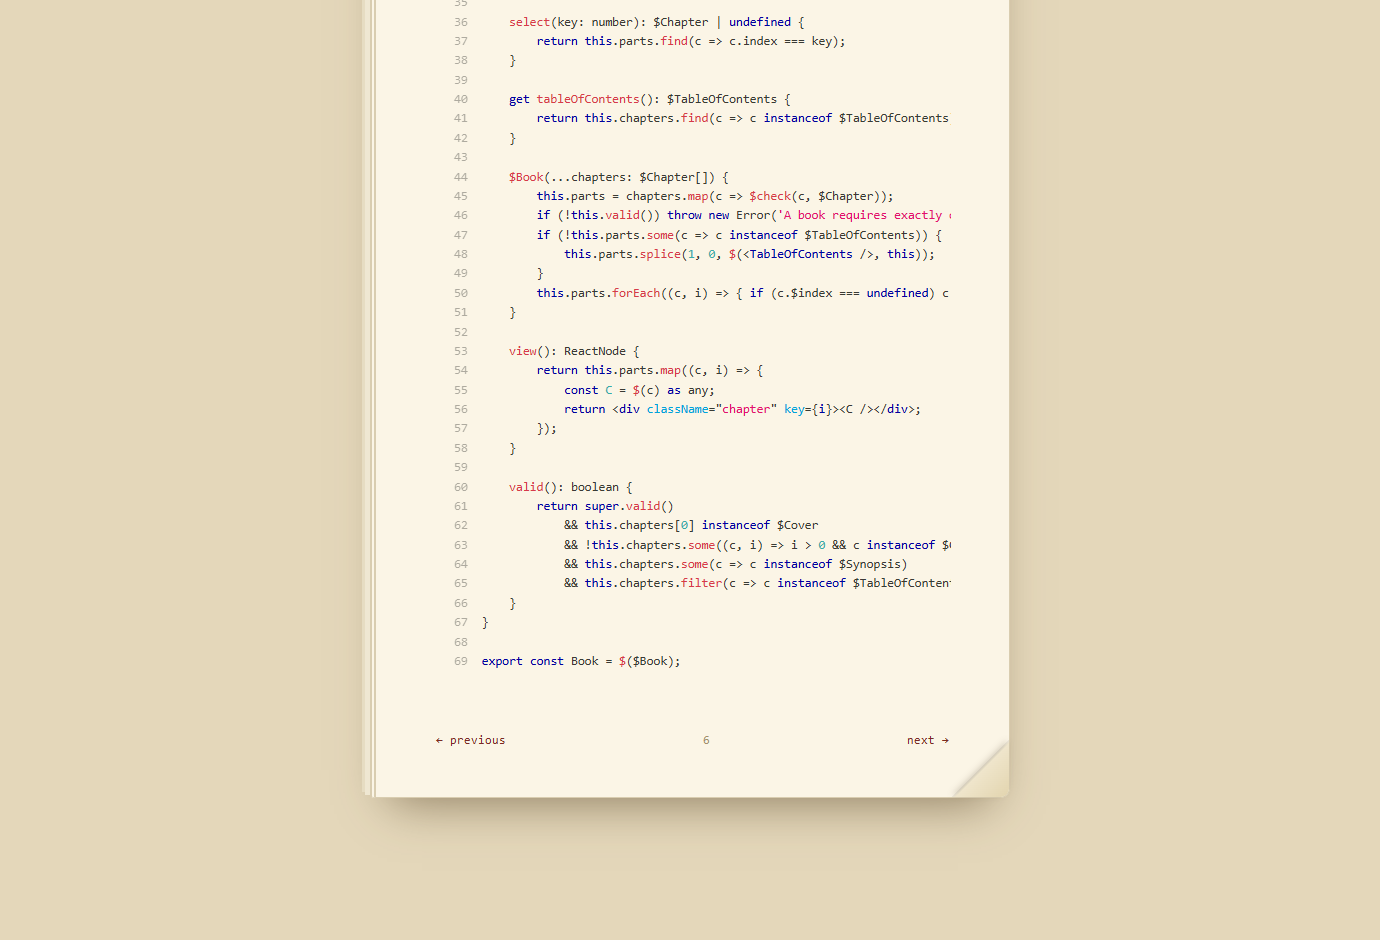
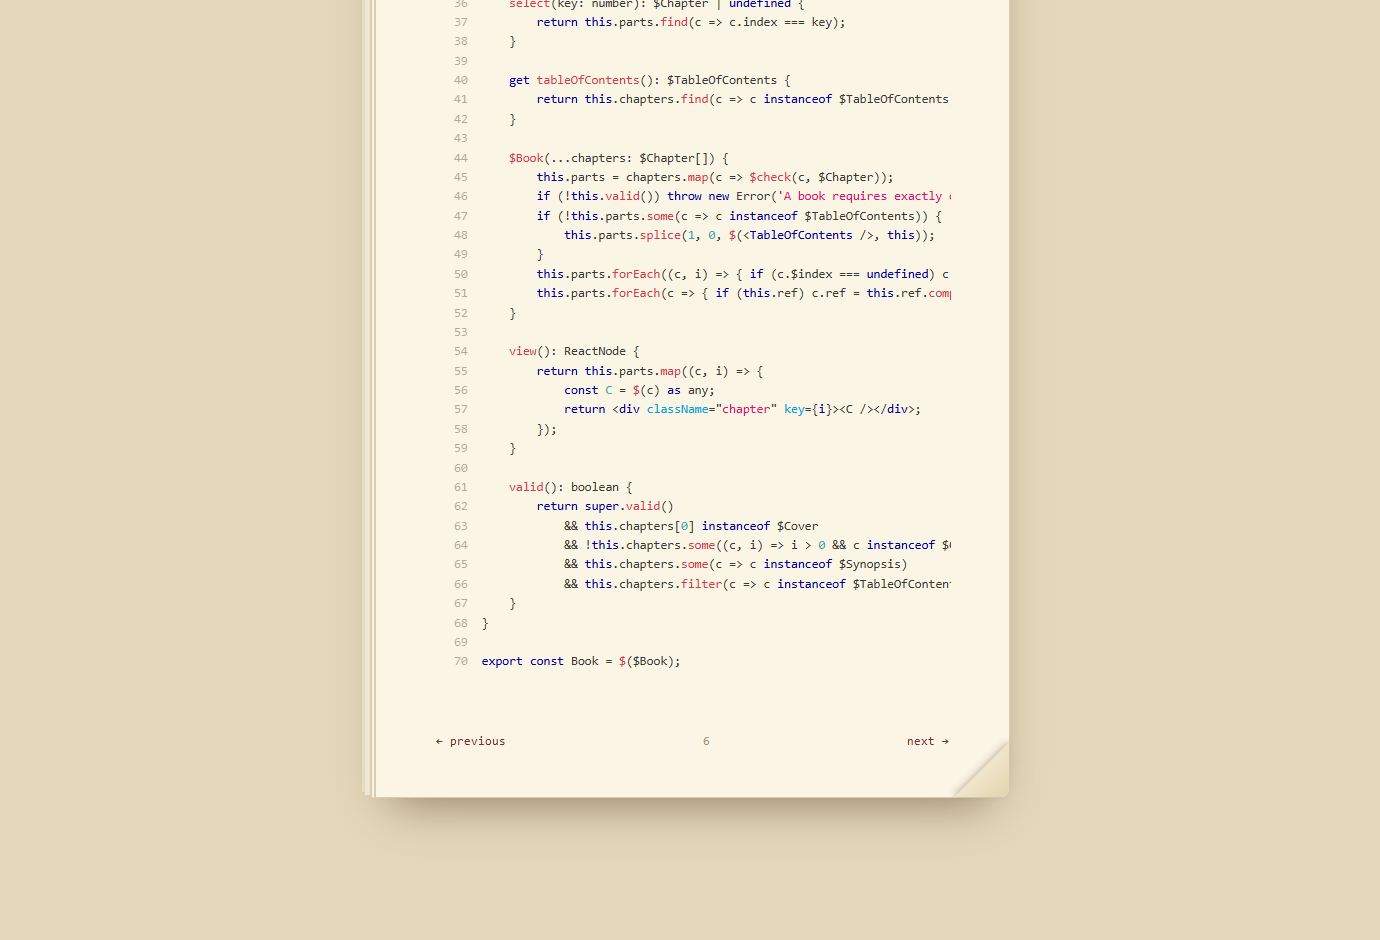
The composition assigns the reference: generated and assigned with the parts (every parts reading and bond constructor composes the holder's context down — fresh sub-chapter parts have no parent, so assignment is how context descends); the holder of the referential context overwrites even an endogen

diff --git a/library/.public/package/tests/book/book.test.tsx b/library/.public/package/tests/book/book.test.tsx
@@ -10,7 +10,7 @@ import { $Synopsis, Synopsis } from '@/book/Synopsis';
 import { $TableOfContents, TableOfContents } from '@/book/TableOfContents';
 import { $Book, Book } from '@/book/Book';
 import { Title } from '@/writing/Title';
-import { $Reference } from '@/ref/Reference';
+import { $Reference, Reference } from '@/ref/Reference';
 import { $Link, Link } from '@/ref/Link';
 import { $Bookmark, Bookmark } from '@/book/Bookmark';
 
@@ -168,6 +168,34 @@ describe('$Book — a composition of chapters, of which cover, synopsis, index, 
         expect(b.select(3)).toBe(c);
         const s = c.sections[0];
         expect(s.ref?.$for).toBe('/books/algebra#3.1');
+    });
+
+    it('the composition assigns the reference with the parts', () => {
+        const s: $Section = $(<Section><Title>Grounded</Title>{'\n\nOne paragraph stands here. It carries two sentences.'}</Section>);
+        s.ref = $(<Link for="/books/algebra#3.2">The Frame</Link>) as $Link;
+        const p = s.parts[1];
+        expect(p.$ref?.$for).toBe('/books/algebra#3.2.1');
+        expect(p.parts[0].$ref?.$for).toBe('/books/algebra#3.2.1.1');
+    });
+
+    it('an endogenous reference at the foot of the block is stripped and assigned', () => {
+        const s: $Section = $(<Section><Title>Marked</Title>{'\n\nProse of the section stands alone. '}<Reference for="#9.9">a mark in the writing</Reference></Section>);
+        expect(s.$ref?.$for).toBe('#9.9');
+        expect(s.copy).not.toContain('a mark in the writing');
+    });
+
+    it('the holder of the referential context overwrites an endogenous reference', () => {
+        const holder: $Section = $(<Section><Title>Holder</Title>{'\n\nContext lives here.'}</Section>);
+        holder.ref = $(<Link for="/held">Holder</Link>) as $Link;
+        const inner: $Section = $(<Section><Title>Inner</Title>{'\n\nProse stands here. '}<Reference for="#permalink">m</Reference></Section>, holder);
+        expect(inner.$ref?.$for).toBe('#permalink');
+        expect(inner.ref?.$for).toBe('/held#0');
+    });
+
+    it('below the paragraph a reference is a span — start and end in the text', () => {
+        const r: $Reference = $(<Reference for="#3.2.1" start={4} end={19}>the highlighted span</Reference>);
+        expect(r.start).toBe(4);
+        expect(r.end).toBe(19);
     });
 
     it('a bookmark resolves to a part of its book — associated because it is rendered inside it', () => {

diff --git a/library/.public/package/src/writing/Section.tsx b/library/.public/package/src/writing/Section.tsx
@@ -1,6 +1,7 @@
 import React, { type ReactNode } from 'react';
 import { $, $check, type $Html } from '@dna-platform/chemistry';
 import { $Referent } from '../ref/Referent';
+import { $Reference } from '../ref/Reference';
 import { text, display } from '../tools/html';
 import { type $Composition } from './Composition';
 import { $Paragraph, Paragraph } from './Paragraph';
@@ -31,7 +32,11 @@ export class $Section extends $Referent implements $Composition<$Paragraph> {
 
     get parts(): $Paragraph[] {
         const paragraphs: $Paragraph[] = this.copy.split(/\n{2,}/).map(p => $(<Paragraph>{p.trim()}</Paragraph>));
-        return paragraphs.filter(p => p.valid()).map((p, i) => { p.index = i; return p; });
+        return paragraphs.filter(p => p.valid()).map((p, i) => {
+            p.index = i;
+            if (this.ref) p.ref = this.ref.compose(p.index);
+            return p;
+        });
     }
 
     get subtitle(): $Subtitle | undefined {
@@ -56,6 +61,16 @@ export class $Section extends $Referent implements $Composition<$Paragraph> {
 
     $Section(block?: $Html<'block'>) {
         this.block = $check(block, 'block');
+        const els = (this.block as any)?.$elements as unknown[] | undefined;
+        if (els?.length) {
+            const top = els[0] instanceof $Reference ? els[0] : undefined;
+            const bottom = !top && els[els.length - 1] instanceof $Reference ? els[els.length - 1] : undefined;
+            const endogenous = top ?? bottom;
+            if (endogenous) {
+                els.splice(els.indexOf(endogenous), 1);
+                this.$ref = endogenous as $Reference;
+            }
+        }
         const first = this.block?.$elements?.[0];
         this.title = first instanceof $Title ? first.block : $check(first, 'block') as $Html<'block'>;
     }

diff --git a/library/.public/package/app/src/sections/book/library/algebra/07-the-reference.tsx b/library/.public/package/app/src/sections/book/library/algebra/07-the-reference.tsx
@@ -12,7 +12,7 @@ export class $TheReference extends $Chapter {
                     <Title>The Reference: A Sentence That Stands For</Title>
                     {'\n\nA reference is not a new kind of thing. It is a sentence — the kind that stands for something. “See the chapter on coordinates” is grammatical anywhere a sentence is; what it adds is not structure but posture. It points.'}
                     {'\n\nThis settles an old regress. If every reference needed a reference of its own, the tower would never ground. But the reference of a reference is the reference of a sentence — its place in the writing, derived like anyone else’s. The tower grounds because references live on the very spine they point along.'}
-                    {'\n\nThis page can prove it. The claim that reading changes coordinates was made in [the chapter on coordinates](#3); the frame itself was built in [its second section](#3.2). Both of those are sentences standing in this paragraph — grammatical here, pointing there.'}
+                    {'\n\nThis page can prove it. The claim that reading changes coordinates was made in [the chapter on coordinates](#3); the frame itself was built in [its second section](#3.2). Both of those are sentences standing in this paragraph — grammatical here, pointing there. And a reference below the paragraph is a *highlighting*: follow [this very paragraph](#7.1.3) and watch it light and fade, the span between a start and an end.'}
                 </Section>
                 <Section>
                     <Title>Composition and Selection</Title>

diff --git a/library/.public/package/app/src/sections/the-books.tsx b/library/.public/package/app/src/sections/the-books.tsx
@@ -303,9 +303,9 @@ function ChapterOpening({ r, mode, go }: OpeningProps) {
                         {si > 0 && sec.sub && <SectionSub>{sec.sub}</SectionSub>}
                         {sec.paragraphs.map((p, k) => (
                             p.startsWith('> ')
-                                ? <Quote key={k}>{rich(p.slice(2), go, notes)}</Quote>
+                                ? <Quote key={k} id={`${r.index}.${si + 1}.${k + 1}`}>{rich(p.slice(2), go, notes)}</Quote>
                                 : (
-                                    <Prose key={k} $drop={si === 0 && k === firstProse} style={{ marginTop: si === 0 && k === firstProse ? 16 : undefined }}>
+                                    <Prose key={k} id={`${r.index}.${si + 1}.${k + 1}`} $drop={si === 0 && k === firstProse} style={{ marginTop: si === 0 && k === firstProse ? 16 : undefined }}>
                                         {rich(p, go, notes)}
                                     </Prose>
                                 )
@@ -361,7 +361,12 @@ class $TheBooks extends $Chemical {
         if (p < 0) return;
         this.mode = 'read';
         this.turn(p);
-        setTimeout(() => { document.getElementById(anchor)?.scrollIntoView({ behavior: 'smooth', block: 'start' }); }, 80);
+        setTimeout(() => {
+            const part = document.getElementById(anchor);
+            part?.scrollIntoView({ behavior: 'smooth', block: 'start' });
+            part?.classList.add('lit');
+            setTimeout(() => part?.classList.remove('lit'), 2400);
+        }, 80);
     }
 
     leave(r: Row) {

diff --git a/library/.public/package/src/writing/Paragraph.tsx b/library/.public/package/src/writing/Paragraph.tsx
@@ -23,7 +23,11 @@ export class $Paragraph extends $Referent implements $Composition<$Sentence> {
 
     get parts(): $Sentence[] {
         const sentences: $Sentence[] = (this.copy.match(/\s*[^.!?]+[.!?]*/g) ?? []).map(s => $(<Sentence>{s.trim()}</Sentence>));
-        return sentences.filter(s => s.valid()).map((s, i) => { s.index = i + 1; return s; });
+        return sentences.filter(s => s.valid()).map((s, i) => {
+            s.index = i + 1;
+            if (this.ref) s.ref = this.ref.compose(s.index);
+            return s;
+        });
     }
 
     constructor() {

diff --git a/library/.public/package/src/ref/Referent.tsx b/library/.public/package/src/ref/Referent.tsx
@@ -5,9 +5,11 @@ export class $Referent extends $Chemical {
     $ref?: $Reference;
 
     get ref(): $Reference | undefined {
-        if (this.$ref) return this.$ref;
         const parent = this.parent;
-        return parent instanceof $Referent ? parent.ref?.compose((this as any).index ?? 0) : undefined;
+        const derived = parent instanceof $Referent && parent !== this
+            ? parent.ref?.compose((this as any).index ?? 0)
+            : undefined;
+        return derived ?? this.$ref;
     }
 
     set ref(reference: $Reference | undefined) {

diff --git a/library/.public/package/src/writing/Sentence.tsx b/library/.public/package/src/writing/Sentence.tsx
@@ -23,7 +23,11 @@ export class $Sentence extends $Referent implements $Composition<$Word> {
 
     get parts(): $Word[] {
         const words: $Word[] = (this.copy.match(/[\p{L}\p{N}']+/gu) ?? []).map(w => $(<Word>{w}</Word>));
-        return words.filter(w => w.valid()).map((w, i) => { w.index = i + 1; return w; });
+        return words.filter(w => w.valid()).map((w, i) => {
+            w.index = i + 1;
+            if (this.ref) w.ref = this.ref.compose(w.index);
+            return w;
+        });
     }
 
     constructor() {

diff --git a/library/.public/package/src/book/Chapter.tsx b/library/.public/package/src/book/Chapter.tsx
@@ -43,6 +43,7 @@ export class $Chapter extends $Referent implements $Composition<$Section> {
     $Chapter(...sections: $Section[]) {
         this.parts = sections.length ? sections.map(s => $check(s, $Section)) : this.written();
         this.parts.forEach((s, i) => { if (s.$index === undefined) s.index = i + 1; });
+        this.parts.forEach(s => { if (this.ref) s.ref = this.ref.compose(s.index); });
         if (!this.valid()) throw new Error('A chapter requires a summary — a parenthetical section.');
     }
 

diff --git a/library/.public/package/src/ref/Reference.tsx b/library/.public/package/src/ref/Reference.tsx
@@ -5,6 +5,11 @@ import { $Sentence } from '../writing/Sentence';
 
 export class $Reference<T extends $Referent = $Referent> extends $Sentence {
     $for?: string;
+    $start?: number;
+    $end?: number;
+
+    get start(): number | undefined { return this.$start; }
+    get end(): number | undefined { return this.$end; }
 
     compose(key: number | string): $Reference {
         const base = this.$for ?? '';

diff --git a/library/.public/package/app/src/sections/book/books.styled.ts b/library/.public/package/app/src/sections/book/books.styled.ts
@@ -167,6 +167,15 @@ export const Page = styled.div`
         margin-left: 1px;
         font-family: ui-monospace, Menlo, Consolas, monospace;
     }
+
+    .lit {
+        animation: lit-fade 2.2s ease-out;
+    }
+
+    @keyframes lit-fade {
+        0% { background: rgba(185, 143, 62, 0.32); }
+        100% { background: transparent; }
+    }
 `;
 
 export const Quote = styled.blockquote`

diff --git a/library/.public/package/src/book/Book.tsx b/library/.public/package/src/book/Book.tsx
@@ -48,6 +48,7 @@ export class $Book extends $Referent implements $Composition<$Chapter> {
             this.parts.splice(1, 0, $(<TableOfContents />, this));
         }
         this.parts.forEach((c, i) => { if (c.$index === undefined) c.index = i; });
+        this.parts.forEach(c => { if (this.ref) c.ref = this.ref.compose(c.index); });
     }
 
     view(): ReactNode {
